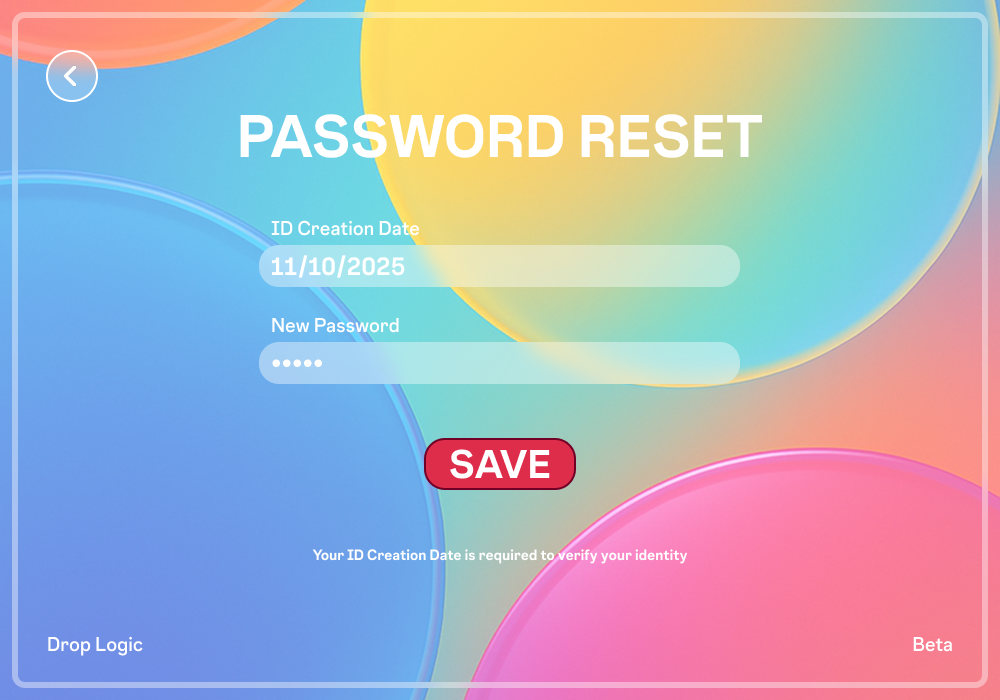
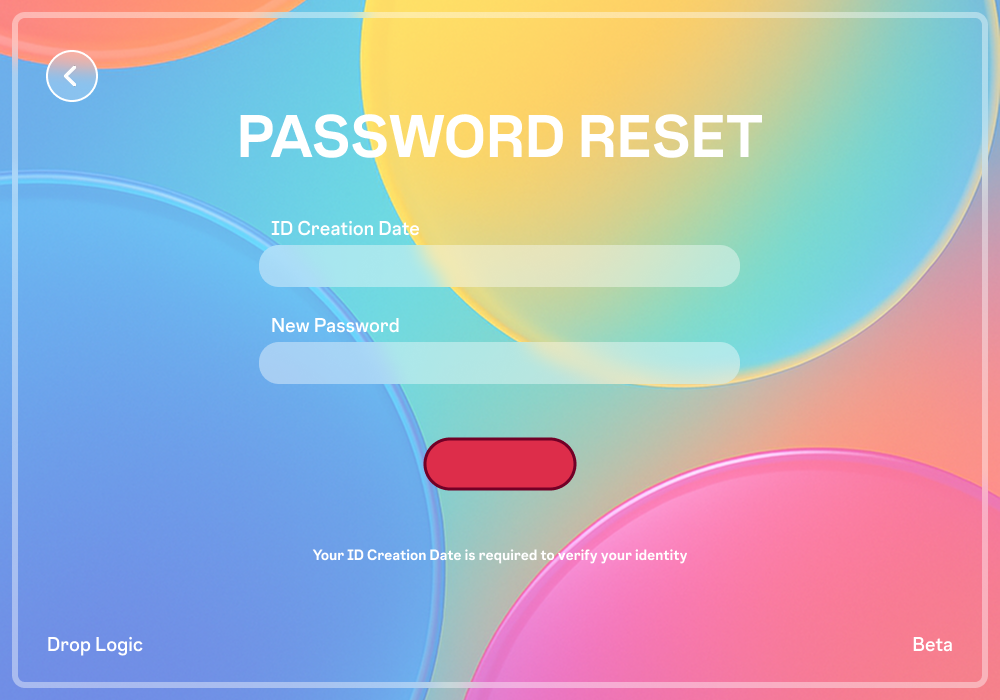
prove - lavoro 8/12/2025 - luca

Changed region(s): [[0.403, 0.63, 0.589, 0.72], [0.279, 0.36, 0.403, 0.39], [0.279, 0.51, 0.31, 0.54]]

diff --git a/core/src/main/sorgente/UserData/FirestoreUserRepository.java b/core/src/main/sorgente/UserData/FirestoreUserRepository.java
@@ -24,7 +24,7 @@ public class FirestoreUserRepository
     public static Map<String, Integer> userPointsMap = new HashMap<>();
 
     // dati del database per la connessione
-    private static final String PROJECT_ID = "astroinvasioncloud"; // nome database
+    private static final String PROJECT_ID = "forza4"; // nome database
     private static final String DATABASE_URL = "https://firestore.googleapis.com/v1/projects/" + PROJECT_ID + "/databases/(default)/documents/";
 
     // costruttore
@@ -40,7 +40,7 @@ public class FirestoreUserRepository
 
     // metodo per controllare dell'esistenza del nickname sul server
     public static boolean checkUsernameExists(String username) throws IOException {
-        String url = DATABASE_URL + "astroData/" + username;
+        String url = DATABASE_URL + "users/" + username;
 
         OkHttpClient client = new OkHttpClient();
         Request request = new Request.Builder()
@@ -59,7 +59,7 @@ public class FirestoreUserRepository
     // PUNTI UTENTE //
     // metodo per salvare i punti utente
     public static void setUserPoints(String username, int points) throws IOException {
-        String url = DATABASE_URL + "astroData/" + username + "?updateMask.fieldPaths=points";
+        String url = DATABASE_URL + "users/" + username + "?updateMask.fieldPaths=points";
 
         Map<String, Object> pointsField = new HashMap<>();
         pointsField.put("integerValue", Integer.toString(points));
@@ -87,7 +87,7 @@ public class FirestoreUserRepository
 
     // metodo per caricare i punti di tutti gli utenti
     public static void loadAllUserPoints() throws IOException {
-        String url = DATABASE_URL + "astroData?pageSize=1000";
+        String url = DATABASE_URL + "users?pageSize=1000";
 
         OkHttpClient client = new OkHttpClient();
         Request request = new Request.Builder()
@@ -136,7 +136,7 @@ public class FirestoreUserRepository
     // PASSWORD //
     // metodo per recuperare la password utente
     public static String getPassword(String username) throws IOException {
-        String url = DATABASE_URL + "astroData/" + username;
+        String url = DATABASE_URL + "users/" + username;
 
         OkHttpClient client = new OkHttpClient();
         Request request = new Request.Builder()
@@ -159,7 +159,7 @@ public class FirestoreUserRepository
     // metodo per salvare la password utente in cloud
     public static void setPassword(String username, String password) throws IOException {
         // URL con updateMask per aggiornare solo il campo "psw"
-        String url = DATABASE_URL + "astroData/" + username + "?updateMask.fieldPaths=psw";
+        String url = DATABASE_URL + "users/" + username + "?updateMask.fieldPaths=psw";
 
         // hash della password
         password = BCrypt.hashpw(password, BCrypt.gensalt());
@@ -195,7 +195,7 @@ public class FirestoreUserRepository
                 if (callback != null) callback.onProgress(10);
 
                 // URL con updateMask per aggiornare solo il campo "dat"
-                String url = DATABASE_URL + "astroData/" + username + "?updateMask.fieldPaths=dat";
+                String url = DATABASE_URL + "users/" + username + "?updateMask.fieldPaths=dat";
 
                 Map<String, Object> fields = new HashMap<>();
                 Map<String, Object> dataField = new HashMap<>();
@@ -238,7 +238,7 @@ public class FirestoreUserRepository
             try {
                 callback.onProgress(10);
 
-                String url = DATABASE_URL + "astroData/" + username;
+                String url = DATABASE_URL + "users/" + username;
 
                 OkHttpClient client = new OkHttpClient();
                 Request request = new Request.Builder()
@@ -273,7 +273,7 @@ public class FirestoreUserRepository
     // ELIMINAZIONE PROFILO //
     // metodo per eliminare definitivamente un profilo utente
     public static void deleteUserProfile(String username) throws IOException {
-        String url = DATABASE_URL + "astroData/" + username;
+        String url = DATABASE_URL + "users/" + username;
 
         OkHttpClient client = new OkHttpClient();
         Request request = new Request.Builder()

diff --git a/core/src/main/sorgente/Authentication/AuthAlgorithms.java b/core/src/main/sorgente/Authentication/AuthAlgorithms.java
@@ -12,6 +12,7 @@ import sorgente.UserData.UserProgressService;
 import sorgente.UserData.LocalLockStore;
 import sorgente.UserData.SessionLockService;
 
+import java.io.IOException;
 import java.net.InetAddress;
 import java.time.LocalDate;
 import java.time.format.DateTimeFormatter;
@@ -25,7 +26,8 @@ public class AuthAlgorithms implements InputProcessor {
     protected final StringBuilder nicknameInput, passwordInput;
 
     // variabile per nascondere/mostrare la password e cambiare stile pulsanti
-    protected boolean showPS=false, isHover1=false, isHover2=false;
+    protected boolean showPS=false, btnRedHover=false, btnResetPSWHover=false,
+    gotoSignupHover=false, gotoLoginHover=false, gobackHover=false;
 
     // variabili per gli errori durante le autenticazioni
     protected boolean error = false; // "Password wrong"/"Nickname already in use"
@@ -378,17 +380,31 @@ public class AuthAlgorithms implements InputProcessor {
         System.out.println(screenX + " " + screenY);
 
         // cambio pagina - accesso => registrazione
-        if ((screenX >= 425 && screenX <= 559) && (screenY >= 553 && screenY <= 595)) {
+        if ((screenX >= 894 && screenX <= 944) && (screenY >= 48 && screenY <= 98)) {
             resetTexts(); // reset campi editabili
             resetErrors(); // reset di qualunque errore
             SoundManager.playClickButton(50); // suono del click
 
             // cambio pagina
-            if (state==0) state = 1;
-            else state=0;
+            if (state==0) state = 1; // da login a signup
+            else state=0; // da signup a login
         }
 
-        // click per avviare il gioco
+        // pulsante back => da psw reset a login
+
+
+        // reset psw
+        if (state==0 && !nicknameInput.isEmpty() && (screenX >= 378 && screenX <= 604) && (screenY >= 541 && screenY <= 583)) {
+            // check esistenza utente
+            try {
+                if (!FirestoreUserRepository.checkUsernameExists(nickname)) { resetErrors(); error1 = true;} // nickname not found
+                else state=2; // passaggio al reset password
+            } catch (IOException e) {
+                throw new RuntimeException(e);
+            }
+        }
+
+        // click per procedere avanti
         if (isValidInput() && (screenX >= 417 && screenX <= 567) && (screenY >= 436 && screenY <= 487)) {
             SoundManager.playClickButton(50); // suono del click
 
@@ -422,19 +438,29 @@ public class AuthAlgorithms implements InputProcessor {
     // cambio icona mouse al passaggio sugli elementi
     @Override public boolean mouseMoved(int screenX, int screenY) {
         // finché si muove fuori dai pulsanti rimangono spenti, con le grafiche di base
-        isHover1=isHover2=false;
+        btnRedHover=btnResetPSWHover=gotoLoginHover=gotoSignupHover=gobackHover=false;
 
-        // schermo intero per icona mouse
+        // icona mouse
         if ((screenX >= 0 && screenX <= 1000) && (screenY >= 0 && screenY <= 700)) {
             Gdx.graphics.setCursor(cursor);
         }
-        // pulsante accesso gioco
-        if (isValidInput() && (screenX >= 417 && screenX <= 567) && (screenY >= 436 && screenY <= 487)) {
-            isHover1=true;
+
+        // pulsante avanti rosso
+        if (isValidInput() && checkInternetConnection() && (screenX >= 417 && screenX <= 567) && (screenY >= 436 && screenY <= 487)) {
+            btnRedHover=true;
         }
-        // pulsante cambio pagina
-        if (checkInternetConnection() && (screenX >= 425 && screenX <= 559) && (screenY >= 553 && screenY <= 595)) {
-            isHover2=true;
+
+        // pulsante in alto a dx
+        if ((screenX >= 894 && screenX <= 944) && (screenY >= 48 && screenY <= 98)) {
+            if (state==0) gotoSignupHover=true;
+            else gotoLoginHover=false;
+        }
+
+        // pulsante in alto a sx
+
+        // pulsante reset psw
+        if (state==0 && !nicknameInput.isEmpty() && (screenX >= 378 && screenX <= 604) && (screenY >= 541 && screenY <= 583)) {
+            btnResetPSWHover=true;
         }
 
         return true;

diff --git a/core/src/main/sorgente/Authentication/AuthUI.java b/core/src/main/sorgente/Authentication/AuthUI.java
@@ -153,8 +153,8 @@ public class AuthUI extends ScreenAdapter implements ResourceLoader {
         else screen.draw(coverPS, 695,323);
 
         // pulsante PLAY e cambio pagina
-        if (alg.isHover1) screen.draw(redBtnHover, 424, 210);
-        if (alg.isHover2) {
+        if (alg.btnRedHover) screen.draw(redBtnHover, 424, 210);
+        if (alg.btnResetPSWHover) {
             if (alg.state==1) screen.draw(btnResetPSW, 428, 99);
             else screen.draw(btnResetPSW, 428, 99);
         }
